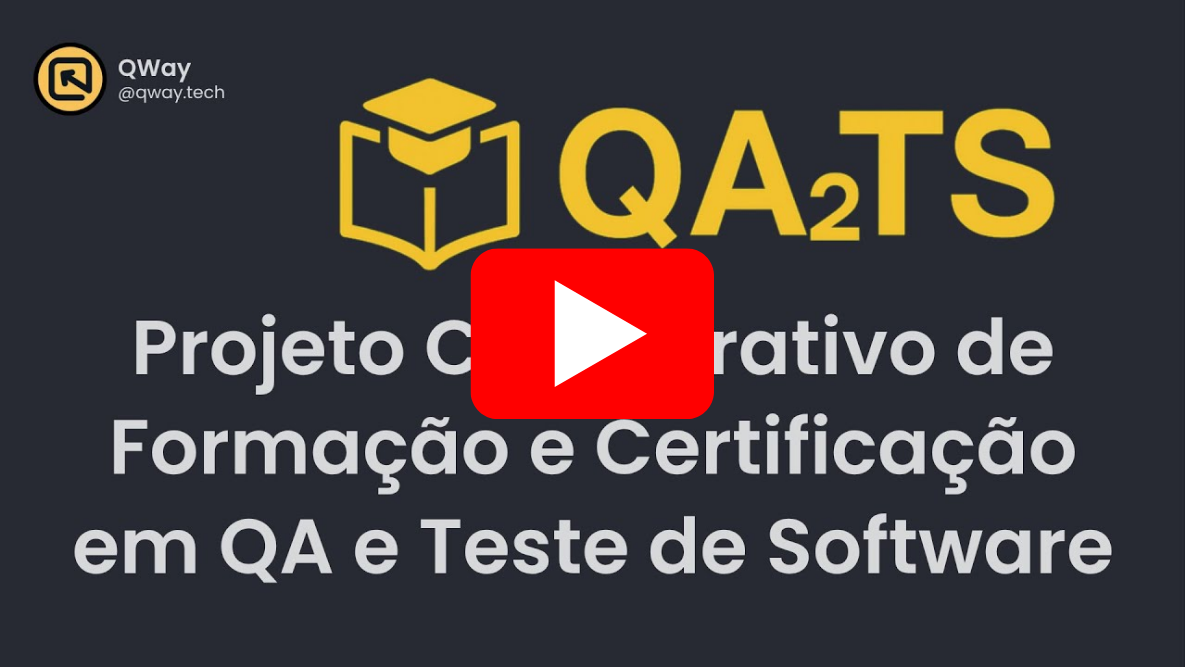
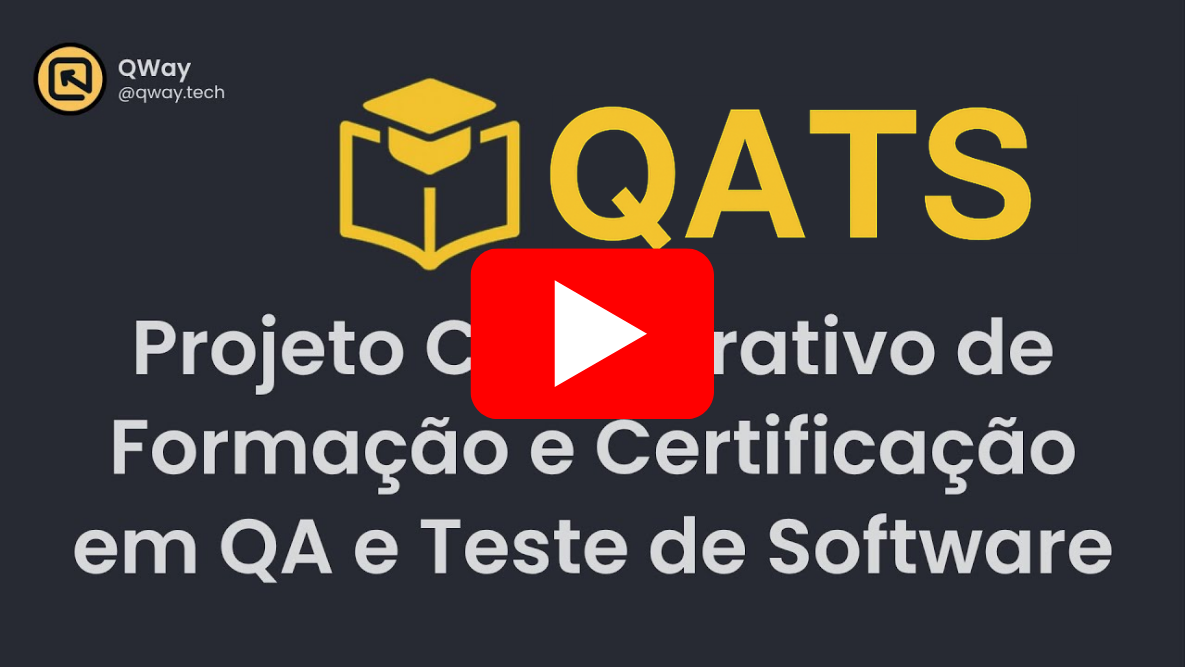
Renaming.

Changed region(s): [[0.4371, 0.1497, 0.9055, 0.3892]]

diff --git a/apps/plataforma/frontend/src/components/Navbar.tsx b/apps/plataforma/frontend/src/components/Navbar.tsx
@@ -2,7 +2,7 @@ import { useState, useEffect, useRef } from 'react';
 import { Link } from 'react-router-dom';
 import { useAuth } from '@/context/useAuth';
 import ProfileMenu from './ProfileMenu';
-import logo from '@/assets/qa2ts_logo_horizontal_amarelo.png';
+import logo from '@/assets/qats_logo_horizontal_amarelo.png';
 
 export default function Navbar() {
   const { user } = useAuth();
@@ -48,7 +48,7 @@ export default function Navbar() {
           {/* Logo */}
           <div>
             <Link to="/">
-              <img src={logo} alt="QA2TS" className="h-8 object-contain" />
+              <img src={logo} alt="QATS" className="h-8 object-contain" />
             </Link>
           </div>
 
@@ -61,7 +61,7 @@ export default function Navbar() {
                 </Link>
               </li>
               <li>
-                <Link to="https://github.com/qway-tech/qa2ts-brasil" className="navbar-link">
+                <Link to="https://github.com/qway-tech/qats-brasil" className="navbar-link">
                   Repositório
                 </Link>
               </li>
@@ -125,7 +125,7 @@ export default function Navbar() {
             </li>
             <li>
               <Link
-                to="https://github.com/qway-tech/qa2ts-brasil"
+                to="https://github.com/qway-tech/qats-brasil"
                 className="navbar-link block"
                 onClick={() => setIsMobileMenuOpen(false)}
               >

diff --git a/apps/plataforma/frontend/src/pages/Home/index.tsx b/apps/plataforma/frontend/src/pages/Home/index.tsx
@@ -5,12 +5,12 @@ export default function Home() {
     <MainLayout>
       <div data-testid="page-home" className="space-y-6">
         <h1 className="text-4xl font-bold text-heading">
-          Bem-Vindos ao QA<sub>2</sub>TS
+          Bem-Vindos ao QATS
         </h1>
         <p className="text-body text-lg">
           O{' '}
           <strong>
-            QA<sub>2</sub>TS
+            QATS
           </strong>{' '}
           (Qualificação Aberta em QA e Testes de Software) é um projeto open-source e colaborativo
           que tem como objetivo oferecer um caminho estruturado, ético e gratuito para formação de

diff --git a/apps/plataforma/frontend/src/components/UserMenu.tsx b/apps/plataforma/frontend/src/components/UserMenu.tsx
@@ -5,13 +5,13 @@ export default function UserMenu() {
   const [user, setUser] = useState<{ name: string } | null>(null);
 
   useEffect(() => {
-    const stored = localStorage.getItem('qa2ts-user');
+    const stored = localStorage.getItem('qats-user');
     if (stored) setUser(JSON.parse(stored));
   }, []);
 
   const handleLogout = () => {
-    localStorage.removeItem('qa2ts-token');
-    localStorage.removeItem('qa2ts-user');
+    localStorage.removeItem('qats-token');
+    localStorage.removeItem('qats-user');
     window.location.href = '/';
   };
 

diff --git a/apps/plataforma/frontend/src/index.html b/apps/plataforma/frontend/src/index.html
@@ -3,10 +3,10 @@
   <head>
     <meta charset="UTF-8" />
     <meta name="viewport" content="width=device-width, initial-scale=1.0" />
-    <title>QA₂TS</title>
+    <title>QATS</title>
     <meta
       name="description"
-      content="Plataforma oficial do projeto QA₂TS – Qualificação Aberta em QA e Testes de Software."
+      content="Plataforma oficial do projeto QATS – Qualificação Aberta em QA e Testes de Software."
     />
   </head>
   <body class="bg-gray-50 text-gray-800">

diff --git a/apps/plataforma/frontend/src/__tests__/Navbar.test.tsx b/apps/plataforma/frontend/src/__tests__/Navbar.test.tsx
@@ -48,7 +48,7 @@ describe('Navbar', () => {
     expect(screen.getByRole('link', { name: /início/i })).toHaveAttribute('href', '/');
     expect(screen.getByRole('link', { name: /repositório/i })).toHaveAttribute(
       'href',
-      'https://github.com/qway-tech/qa2ts-brasil',
+      'https://github.com/qway-tech/qats-brasil',
     );
   });
 

diff --git a/apps/plataforma/frontend/index.html b/apps/plataforma/frontend/index.html
@@ -4,7 +4,7 @@
     <meta charset="UTF-8" />
     <link rel="icon" type="image/png" href="/src/assets/favicon.png" />
     <meta name="viewport" content="width=device-width, initial-scale=1.0" />
-    <title>QA2TS</title>
+    <title>QATS</title>
   </head>
   <body>
     <div id="root"></div>

diff --git a/apps/plataforma/frontend/src/pages/Login/index.tsx b/apps/plataforma/frontend/src/pages/Login/index.tsx
@@ -14,7 +14,7 @@ export default function Login() {
       <p className="mb-4 text-base">
         Para acessar os recursos do{' '}
         <strong>
-          QA<sub>2</sub>TS
+          QATS
         </strong>
         , como{' '}
         <strong>

diff --git a/README.md b/README.md
@@ -1,6 +1,6 @@
-# 🇧🇷 QA₂TS-Brasil – Qualificação Aberta em QA e Teste de Software
+# 🇧🇷 QATS-Brasil – Qualificação Aberta em QA e Teste de Software
 
-Bem-vindo(a) ao repositório oficial da iniciativa **QA₂TS-Brasil**: um projeto open-source, gratuito e comunitário voltado à formação prática em **Qualidade de Software (QA)** e **Testes de Software**.
+Bem-vindo(a) ao repositório oficial da iniciativa **QATS-Brasil**: um projeto open-source, gratuito e comunitário voltado à formação prática em **Qualidade de Software (QA)** e **Testes de Software**.
 
 Nosso objetivo é oferecer uma formação técnica real, com:
 
@@ -13,7 +13,7 @@ Tudo construído **por e para a comunidade brasileira de QA**.
 
 ---
 
-## 🎥 Apresentação do Projeto QA₂TS
+## 🎥 Apresentação do Projeto QATS
 
 Assista ao vídeo de apresentação da iniciativa, explicando os objetivos, estrutura e formas de contribuição para o projeto de Qualificação Aberta em QA e Testes de Software:
 
@@ -39,7 +39,7 @@ Assista ao vídeo de apresentação da iniciativa, explicando os objetivos, estr
 Apoiam esta iniciativa instituições que:
 
 - Valorizam a qualificação aberta e transparente
-- Reconhecem as certificações QA₂TS como parte de seus critérios de avaliação
+- Reconhecem as certificações QATS como parte de seus critérios de avaliação
 - Compartilham os valores de ética, acessibilidade e boas práticas no mercado de QA
 
 <table>
@@ -51,13 +51,13 @@ Apoiam esta iniciativa instituições que:
     </td>
     <td width="33%" align="center" valign="middle">
       <strong>📣 Sua instituição aqui!</strong><br>
-      <sub>Apoie a iniciativa QA₂TS e tenha sua marca reconhecida como parceira da qualificação aberta em QA.</sub><br>
-      <a href="https://github.com/qway-tech/qa2ts-brasil/wiki/07-%E2%80%90-Apoio-Institucional">💬 Saiba como apoiar</a>
+      <sub>Apoie a iniciativa QATS e tenha sua marca reconhecida como parceira da qualificação aberta em QA.</sub><br>
+      <a href="https://github.com/qway-tech/qats-brasil/wiki/07-%E2%80%90-Apoio-Institucional">💬 Saiba como apoiar</a>
     </td>
     <td width="33%" align="center" valign="middle">
       <strong>📣 Seja um apoiador!</strong><br>
       <sub>Mostre seu compromisso com a educação técnica e ética no mercado de QA. Apoio gratuito e com destaque institucional.</sub><br>
-      <a href="https://github.com/qway-tech/qa2ts-brasil/issues/new?template=apoio-institucional.yml&title=%F0%9F%8F%A2%20[Apoio]%20Nome%20da%20Institui%C3%A7%C3%A3o">💬 Apoie agora</a>
+      <a href="https://github.com/qway-tech/qats-brasil/issues/new?template=apoio-institucional.yml&title=%F0%9F%8F%A2%20[Apoio]%20Nome%20da%20Institui%C3%A7%C3%A3o">💬 Apoie agora</a>
     </td>
   </tr>
 </table>

diff --git a/docs/02-Como-Participar.md b/docs/02-Como-Participar.md
@@ -1,6 +1,6 @@
 # 🤝 Como Participar
 
-O **QA₂TS-Brasil** é uma iniciativa pública e colaborativa. Você pode contribuir mesmo sem experiência prévia com open source.
+O **QATS-Brasil** é uma iniciativa pública e colaborativa. Você pode contribuir mesmo sem experiência prévia com open source.
 
 ---
 
@@ -21,10 +21,10 @@ O **QA₂TS-Brasil** é uma iniciativa pública e colaborativa. Você pode contr
    - [Governança](./01-Sobre-o-Projeto.md#-governança)
    - [Licença](./04-Licenca.md)
 2. Abra uma *Issue* ou *Pull Request*:
-   - Use os [templates de contribuição](https://github.com/qway-tech/qa2ts-brasil/issues/new/choose)
+   - Use os [templates de contribuição](https://github.com/qway-tech/qats-brasil/issues/new/choose)
 3. Quer atuar com mais regularidade?
    - Candidate-se como **Membro Temporário**:
-     👉 https://github.com/qway-tech/qa2ts-brasil/issues/new?template=candidatura-colaborador.yml&title=%F0%9F%99%8B%20[Candidatura]%20Seu%20Nome%20%E2%80%93%20Papel
+     👉 https://github.com/qway-tech/qats-brasil/issues/new?template=candidatura-colaborador.yml&title=%F0%9F%99%8B%20[Candidatura]%20Seu%20Nome%20%E2%80%93%20Papel
 
 ---
 
@@ -45,4 +45,4 @@ O **QA₂TS-Brasil** é uma iniciativa pública e colaborativa. Você pode contr
 - Transformar trechos em flashcards/mapas mentais/diagramas
 - Comentar com feedback construtivo nas *Issues*
 
-> **Toda contribuição importa.** O QA₂TS é feito por todos nós. ❤
+> **Toda contribuição importa.** O QATS é feito por todos nós. ❤

diff --git a/indice.md b/indice.md
@@ -1,6 +1,6 @@
-# 🗂 Índice Geral das Trilhas de Formação – QA₂TS
+# 🗂 Índice Geral das Trilhas de Formação – QATS
 
-Este índice reúne todas as trilhas, seus respectivos módulos e capítulos disponíveis no projeto **QA₂TS – Qualificação Aberta em QA e Testes de Software**.
+Este índice reúne todas as trilhas, seus respectivos módulos e capítulos disponíveis no projeto **QATS – Qualificação Aberta em QA e Testes de Software**.
 
 ---
 
@@ -68,6 +68,6 @@ Para profissionais que desejam atuar com visão sistêmica e impacto organizacio
 
 ## 📝 Observações
 
-- Estes capítulos seguem a estrutura definida na [Wiki Oficial do Projeto](https://github.com/qway-tech/qa2ts-brasil/wiki/04-%E2%80%90-Trilhas-de-Forma%C3%A7%C3%A3o).
+- Estes capítulos seguem a estrutura definida na [Wiki Oficial do Projeto](https://github.com/qway-tech/qats-brasil/wiki/04-%E2%80%90-Trilhas-de-Forma%C3%A7%C3%A3o).
 - Os links levam diretamente para os diretórios de cada capítulo com conteúdo e quiz.
 - Este índice será atualizado conforme novos módulos e trilhas forem adicionados ao projeto.

diff --git a/recursos/README.md b/recursos/README.md
@@ -1,6 +1,6 @@
 # 📚 Pasta de Recursos
 
-Esta pasta reúne materiais complementares para apoiar os estudos, aplicação prática e aprofundamento dos conteúdos abordados nas trilhas do projeto **QA₂TS-Brasil**.
+Esta pasta reúne materiais complementares para apoiar os estudos, aplicação prática e aprofundamento dos conteúdos abordados nas trilhas do projeto **QATS-Brasil**.
 
 Os recursos aqui organizados são públicos e colaborativos, e podem ser utilizados livremente para fins educacionais.
 
@@ -19,7 +19,7 @@ Os recursos aqui organizados são públicos e colaborativos, e podem ser utiliza
   Guias práticos, manuais ou cheatsheets que ajudam na aplicação dos conceitos e técnicas em contexto real.
 
 - [`apresentacoes/`](./apresentacoes/)  
-  Slides e materiais usados em workshops, treinamentos ou eventos relacionados ao QA₂TS.
+  Slides e materiais usados em workshops, treinamentos ou eventos relacionados ao QATS.
 
 - [`outros/`](./outros/)  
   Qualquer outro recurso que não se encaixe nas categorias anteriores.
